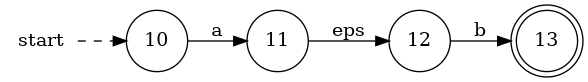
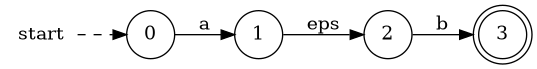
add: normal counter to NFA

Changed region(s): [[0.0298, 0.029, 1.0, 0.9565]]

diff --git a/src/automat/NFA/NFA.cpp b/src/automat/NFA/NFA.cpp
@@ -3,15 +3,15 @@
 
 namespace automat
 {
-    State* NFA::createState()
+    State* NFA::createState(int& counter)
     {
-        return baseAutomat::createState();
+        return baseAutomat::createState(counter);
     }
-    automat NFA::createBaseAutomat(const char symbol)
+    automat NFA::createBaseAutomat(const char symbol, int& counter)
     {
         try
         {
-            const automat a = baseAutomat::createBaseAutomat(symbol);
+            const automat a = baseAutomat::createBaseAutomat(symbol, counter);
             return a;
         } catch(const std::exception& e)
         {
@@ -20,10 +20,10 @@ namespace automat
         }
     }
 
-    automat NFA::baseAlternate(const automat& firsAutomat, const automat& secondAutomat)
+    automat NFA::baseAlternate(const automat& firsAutomat, const automat& secondAutomat, int& counter)
     {
-        start = createState();
-        accept = createState();
+        start = createState(counter);
+        accept = createState(counter);
         accept->isAccept = true;
         start->transitions.insert({'\0', firsAutomat.start});
         start->transitions.insert({'\0', secondAutomat.start});
@@ -43,10 +43,10 @@ namespace automat
         return {firsAutomat.start, secondAutomat.accept};
     }
 
-    automat NFA::baseKleene(const automat& firsAutomat)
+    automat NFA::baseKleene(const automat& firsAutomat, int& counter)
     {
-        start = createState();
-        accept = createState();
+        start = createState(counter);
+        accept = createState(counter);
         accept->isAccept = true;
         start->transitions.insert({'\0', firsAutomat.start});
         start->transitions.insert({'\0', accept});

diff --git a/src/algorithms/algorithm.cpp b/src/algorithms/algorithm.cpp
@@ -16,12 +16,13 @@ namespace automat
         prep::preprocessing regSeq(baseString);
         std::string postfixString = regSeq.normalizeString();
         std::stack<automat> nfaStack;
+        int stateCounter = 0;
         NFA nfa;
         for (const auto& postfix : postfixString)
         {
             if (std::isalnum(postfix))
             {
-                nfaStack.push(nfa.createBaseAutomat(postfix));
+                nfaStack.push(nfa.createBaseAutomat(postfix, stateCounter));
             } else if (postfix == '.')
             {
                 automat secondAutomat = nfaStack.top();
@@ -33,14 +34,14 @@ namespace automat
             {
                 automat Automat = nfaStack.top();
                 nfaStack.pop();
-                nfaStack.push(nfa.baseKleene(Automat));
+                nfaStack.push(nfa.baseKleene(Automat, stateCounter));
             } else if (postfix == '|')
             {
                 automat secondAutomat = nfaStack.top();
                 nfaStack.pop();
                 automat firstAutomat = nfaStack.top();
                 nfaStack.pop();
-                nfaStack.push(nfa.baseAlternate(firstAutomat, secondAutomat));
+                nfaStack.push(nfa.baseAlternate(firstAutomat, secondAutomat, stateCounter));
             }
         }
         visualizer::exportToDot(nfaStack.top().start, nfaStack.top().accept,"NFA");

diff --git a/src/automat/NFA/NFA.h b/src/automat/NFA/NFA.h
@@ -5,12 +5,12 @@ namespace automat {
 
     class NFA : public baseAutomat {
     public:
-        automat createBaseAutomat(char symbol) override;
-        State* createState() override;
+        automat createBaseAutomat(char symbol, int& counter) override;
+        State* createState(int& counter) override;
         //automat createBaseNFA(char symbol);
         automat baseConcat(const automat& firsAutomat, const automat& secondAutomat) override;
-        automat baseKleene(const automat& firsAutomat) override;
-        automat baseAlternate(const automat& firsAutomat, const automat& secondAutomat) override;
+        automat baseKleene(const automat& firsAutomat, int& counter) override;
+        automat baseAlternate(const automat& firsAutomat, const automat& secondAutomat, int& counter) override;
         explicit NFA(State* start = nullptr, State* end = nullptr): baseAutomat(start, end) {};
         [[nodiscard]] bool acceptString(const automat& Automat, const std::string& baseString) override;
         void getEpsilonClojure(State* state, std::set<State*>& visitor) override;

diff --git a/src/automat/base_automat/automat.h b/src/automat/base_automat/automat.h
@@ -33,11 +33,11 @@ namespace automat {
     public:
         virtual ~baseAutomat() = default;
         explicit baseAutomat(State* start, State* end);
-        virtual State* createState() = 0;
-        virtual automat createBaseAutomat(char symbol) = 0;
+        virtual State* createState(int& counter) = 0;
+        virtual automat createBaseAutomat(char symbol, int& counter) = 0;
         virtual automat baseConcat(const automat& firsAutomat, const automat& secondAutomat) = 0;
-        virtual automat baseKleene(const automat& Automat) = 0;
-        virtual automat baseAlternate(const automat& firsAutomat, const automat& secondAutomat) = 0;
+        virtual automat baseKleene(const automat& Automat, int& counter) = 0;
+        virtual automat baseAlternate(const automat& firsAutomat, const automat& secondAutomat, int& counter) = 0;
         virtual bool acceptString(const automat& Automat, const std::string& baseString) = 0;
         virtual void getEpsilonClojure(State* state, std::set<State*>& visitor) = 0;
 

diff --git a/src/automat/base_automat/automat.cpp b/src/automat/base_automat/automat.cpp
@@ -5,7 +5,7 @@
 namespace automat {
 	baseAutomat::baseAutomat(State* start, State* end) : start(start), accept(end) {}
 
-	State* baseAutomat::createState() {
+	State* baseAutomat::createState(int& counter) {
 		try
 		{
 			return new State{counter++, {}};
@@ -16,13 +16,13 @@ namespace automat {
 		}
 	}
 
-	automat baseAutomat::createBaseAutomat(const char symbol) {
+	automat baseAutomat::createBaseAutomat(const char symbol, int& counter) {
 		if (symbol == '\0' || std::iscntrl(symbol))
 		{
 			throw std::invalid_argument("Invalid symbol");
 		}
-		start = createState();
-		accept = createState();
+		start = createState(counter);
+		accept = createState(counter);
 		accept->isAccept = true;
 
 		start->transitions.insert({symbol, accept});
